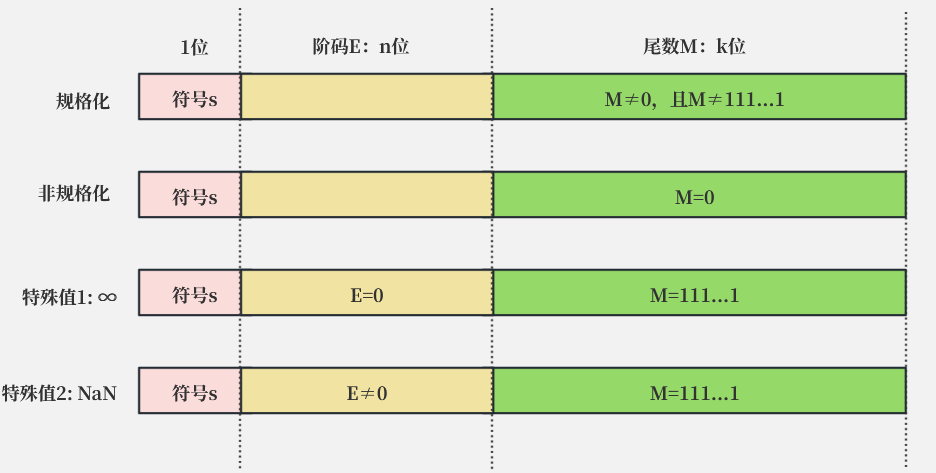
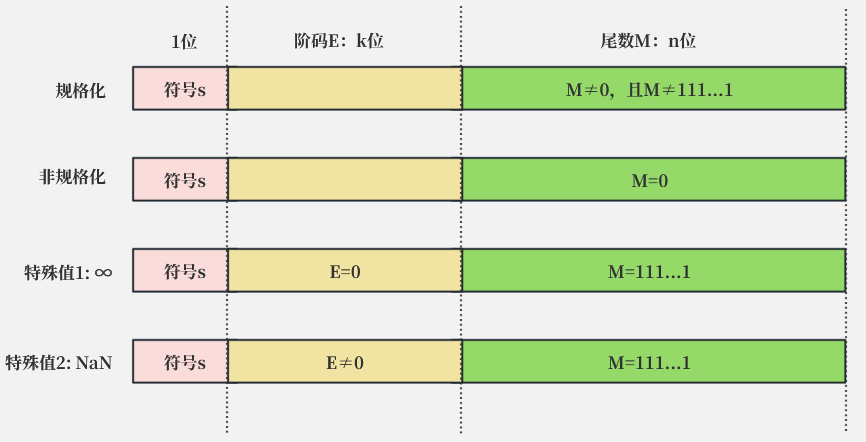
修复k和n的描述错误

diff --git a/mds/csapp3e/float.md b/mds/csapp3e/float.md
@@ -20,12 +20,12 @@ $$V =  (-1)^s  \cdot M  \cdot 2^E$$
 
 
 
-* $(-1)^s$ 表示正负号，当$s=0$时浮点数的值为正， $s=1$时为负。
+*  $(-1)^s$ 表示正负号，当 $s=0$ 时浮点数的值为正， $s=1$时为负。
 * $M$ 表示基础数值，它是一个2进制的小数，值域为：
   * $[1,2-ε]$（规格化时）或
   * $[0,1-ε]$（非规格化时）
 
-* $2^E$ 表示小数点位置（当$E>0$时候小数点向右移动，反之向左移动），
+* $2^E$ 表示小数点位置（当 $E>0$ 时候小数点向右移动，反之向左移动），
 
 
 
@@ -33,8 +33,8 @@ $$V =  (-1)^s  \cdot M  \cdot 2^E$$
 在计算机系统中， $s、M、E$通过以下长度的编码表示： 
 
 *  $s$：用 $1$个bit表示，下文称 $s$为『**符号**』
-*  $E$：用 $n$个bit表示，下文称 $E$为『**阶码**』
-*  $M(mantissa)$：用 $k$个bit表示，下文称 $M$为『**尾数**』
+*  $E$：用 $k$个bit表示，下文称 $E$为『**阶码**』
+*  $M(mantissa)$：用 $n$个bit表示，下文称 $M$为『**尾数**』
 
 
 
@@ -52,13 +52,13 @@ $$V =  (-1)^s  \cdot M  \cdot 2^E$$
 
 IEEE754对 $k$和 $n$做出了一些限制，从而形成了几种不同的浮点数表示方式，这些方式的区别只是 $k$和 $n$的值稍有不同，其解析、计算方式是完全一致的。
 
-| 类型                                                         | 总长度 | $s$的值 | 阶码 $E$的位数（$n$ 的值） | 尾数 $M$的位数（ $k$的值） |
-| ------------------------------------------------------------ | ------ | ------- | -------------------------- | -------------------------- |
-| 半精度                                                       | 16     | 1       | 5                          | 11（有10位被显式存储）     |
-| 单精度                                                       | 32     | 1       | 8                          | 23                         |
-| 双精度                                                       | 64     | 1       | 11                         | 52                         |
-| [quadruple precision ](https://en.wikipedia.org/wiki/Quadruple-precision_floating-point_format) | 128    | 1       | 15                         | 113（有112位被显式存储）   |
-| [octuple precision](https://en.wikipedia.org/wiki/Octuple-precision_floating-point_format) | 256    | 1       | 19                         | 237（有236位被显式存储）   |
+| 类型                                                         | 总长度 | $s$的值 | 阶码 $E$ 的位数（ $k$ 的值） | 尾数 $M$ 的位数（ $n$ 的值） |
+| ------------------------------------------------------------ | ------ | ------- | ---------------------------- | ---------------------------- |
+| 半精度                                                       | 16     | 1       | 5                            | 11（有10位被显式存储）       |
+| 单精度                                                       | 32     | 1       | 8                            | 23                           |
+| 双精度                                                       | 64     | 1       | 11                           | 52                           |
+| [quadruple precision ](https://en.wikipedia.org/wiki/Quadruple-precision_floating-point_format) | 128    | 1       | 15                           | 113（有112位被显式存储）     |
+| [octuple precision](https://en.wikipedia.org/wiki/Octuple-precision_floating-point_format) | 256    | 1       | 19                           | 237（有236位被显式存储）     |
 
 
 
@@ -111,7 +111,7 @@ $$
 
 ### 尾数： $M = frac$
 
-其中 $frac$ 的计算方式同规划化
+其中 $frac$ 的计算方式同规格化
 
 ### 阶码： $E = 1 - Bias$
 
@@ -130,7 +130,7 @@ $$
 
 ## 特殊值： 尾数 $M=11..1_2$
 ###  阶码：  $E=0$
-表示无穷大，根据$s$的不同可以分为 $+\infty$ 和 $-\infty$
+表示无穷大，根据 $s$ 的不同可以分为 $+\infty$ 和 $-\infty$
 
 ### 阶码：  $E≠0$
 表示NaN（not a number）
@@ -140,6 +140,7 @@ $$
 # 几个问题
 * 非规格化的时候 $M=f , E=1-Bias$ 的意义是什么，为何这样做 
 *  $Bias= 2^{k-1}-1$ 怎么理解 
+* 为何在二进制表示上， $E$ 要放在 $M$ 的前面
 
 要解答这个问题，就先要理解浮点数设计的一些目的，浮点数在设计之初就有以下两个目的:
 * 平滑过渡
@@ -149,32 +150,49 @@ $$
 
 ## 关于平滑过渡
 任意两个相邻的无符号整数的差是1，因此整个序列的值是逐渐平缓递增的。
-浮点数的也有相似属性，现在假设有3个相邻的规格化的浮点数$a ，b ，c，其中c>b>a>0$，**且$a$和$b$处于同一阶码**（即$a$到$b$不会产生进位到阶码），**$b$和$c$处于不同的阶码**，
+
+浮点数的也有相似属性，现在假设有3个**相邻的**规格化的浮点数 $a ，b ，c，其中c>b>a>0$，且：
+
+*  $a$ 和 $b$ 处于同一阶码（即 $a$ 到 $b$ 只需要让 $M$ 产生变化，不需要 $E$ 产生变化， 即$e_a = e_b$）
+*  $b$ 和 $c$ 处于不同的阶码（即 $b$ 到 $c$ 不仅需要 $M$ 产生变化，还需要 $E$ 产生变化）
+
+> 注意这里指的**相邻**是值在**浮点数的二进制表示层面上的相邻**，例如 $a，b，c$ 三个数的二进制编码为（ $k=4，n=3$ ）：
+>
+> a：`0_0000_110`
+>
+> b：`0_0000_111`
+>
+> c：`0_0001_000`
+>
+> 注意观察他们在二进制变化上是如何“相邻”的，更加详细的例子见CSAPP的图
+>
+> ![](../../imgs/float-3.png)
 
 根据上面规格化的浮点数计算公式，$b-a$的差为:
 
-$\begin{equation}
+$$\begin{equation}
 \begin{aligned}
 &b-a\\
 &=(-1)^s  \cdot (1+{frac}_b)  \cdot 2^{e_b - Bias} - (-1)^s  \cdot (1+{frac}_a)  \cdot 2^{e_a - Bias} \\
-&=(-1)^s  \cdot 2^{e_b - Bias} \cdot (1+{frac}_b-1+{frac}_a)\\
+&=(-1)^s  \cdot 2^{e_b - Bias} \cdot (1+{frac}_b-1-{frac}_a)\\
 &= (-1)^s  \cdot 2^{e_b - Bias} \cdot({frac}_b-{frac}_a)
 \end{aligned}
-\end{equation}$
+\end{equation}$$
 
 
 
-因为$ab$是相邻的，所以${frac}_b-{frac}_a = ε(ε=2^{-k})$，则差最终为
+令 $ε = {frac}_b-{frac}_a$，因为 $a$ 和 $b$ 是相邻的，所以  $ε=2^{-k}$，则差最终为
 
-
-$\begin{equation}
+$$\begin{equation}
 \begin{aligned}
 b-a & = (-1)^s  \cdot 2^{e_b - Bias} \cdotε\\
   & = (-1)^s  \cdot 2^{e_b - Bias -k} ①
 \end{aligned}
-\end{equation}$
+\end{equation}$$
 
-当$bc$处于不同的阶码时，即$b$到$c$会产生进位到阶码，此时$b$的尾数必定全为1（只有这样$b$的尾数再继续递增才能产生进位到阶码），$c$的尾数全为0，并且$b$的阶码比$c$的阶码小1（进位到阶码的缘故）。此时差为
+
+
+当 $b$ 和 $c$ 处于不同的阶码时，即 $b$ 到 $c$ 会产生进位到阶码，此时 $b$ 的尾数必定全为1（只有这样 $b$ 的尾数再继续递增才能产生进位到阶码），$c$ 的尾数全为0，并且$b$的阶码比$c$的阶码小1（进位到阶码的缘故）。此时差为
 
 $\begin{equation}
 \begin{aligned}
